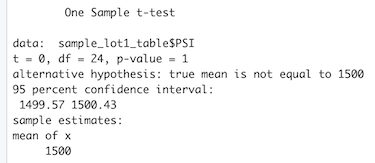
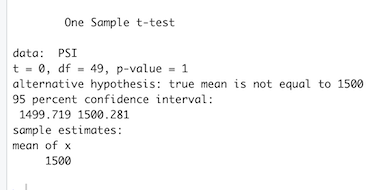
updating the imgaes according to the fixed code

diff --git a/README.md b/README.md
@@ -68,16 +68,11 @@ This shows that it is important to look at each lot individually to analyze, as 
 
 The following plot and t-test were created in order to determine if the PSI across all manufacturing lots is statistically different from the population mean of 1,500 pounds per square inch.
 
-#### All Lots Plot
-
-![sample_table_plot](./Images/sample_table_plot.png)
-
-
 
 #### All Lots t-test
 
 
-![t_test_sample_table](./Images/t_test_sample_table.png)
+![t_test_all_lots](./Images/t_test_all_lots.png)
 
 
 
@@ -90,21 +85,12 @@ using the t.test() function and its subset() argument to determine if the PSI fo
 
 #### Lot1
 
-Plot:
-
-![plot_lot1](./Images/plot_lot1.png)
-
 t-test:
 
 ![t_test_lot1](./Images/t_test_lot1.png)
 
 
 #### Lot2 
-
-Plot:
-
-![plot_lot2](./Images/plot_lot2.png)
-
 
 t-test:
 
@@ -113,10 +99,6 @@ t-test:
 
 
 #### Lot3 
-
-Plot:
-
-![plot_lot3](./Images/plot_lot3.png)
 
 
 t-test:
